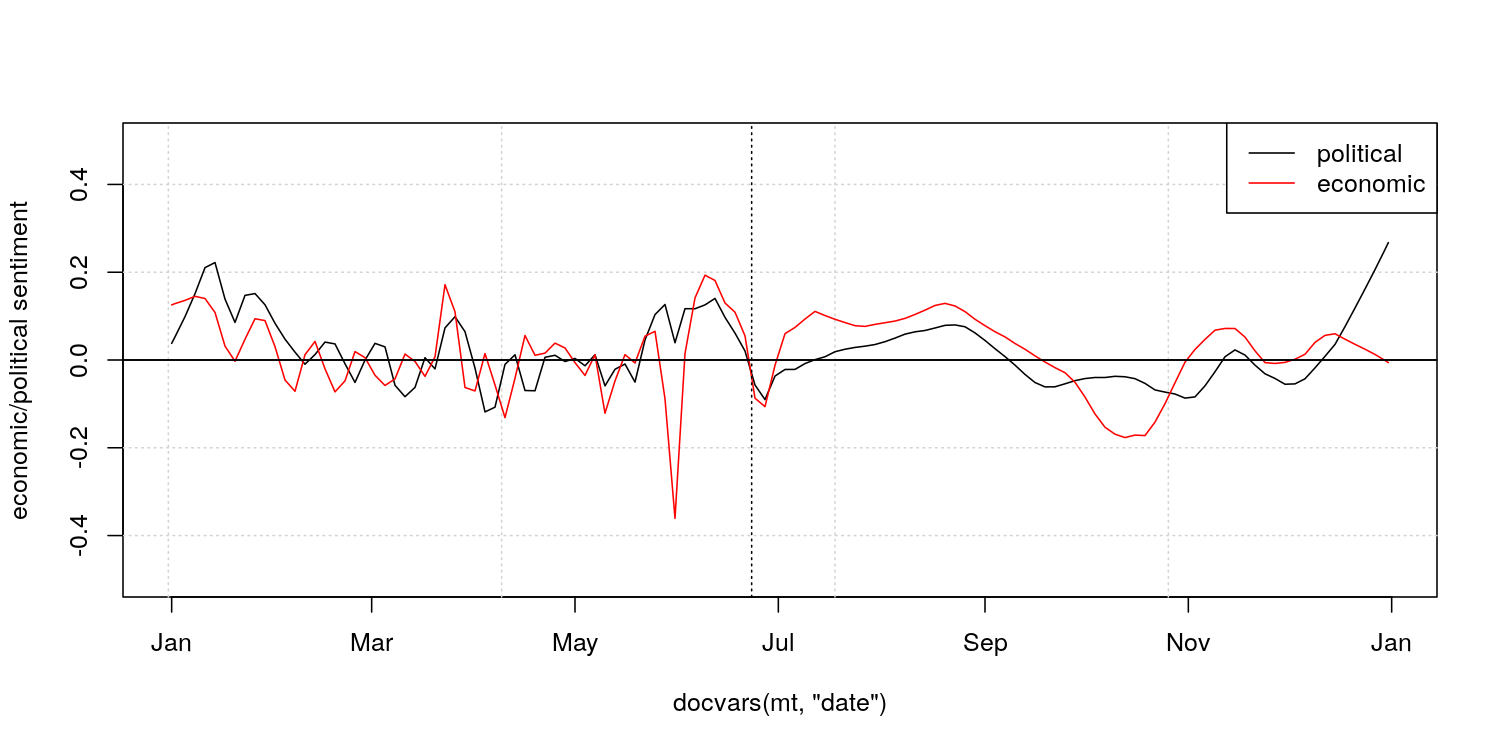
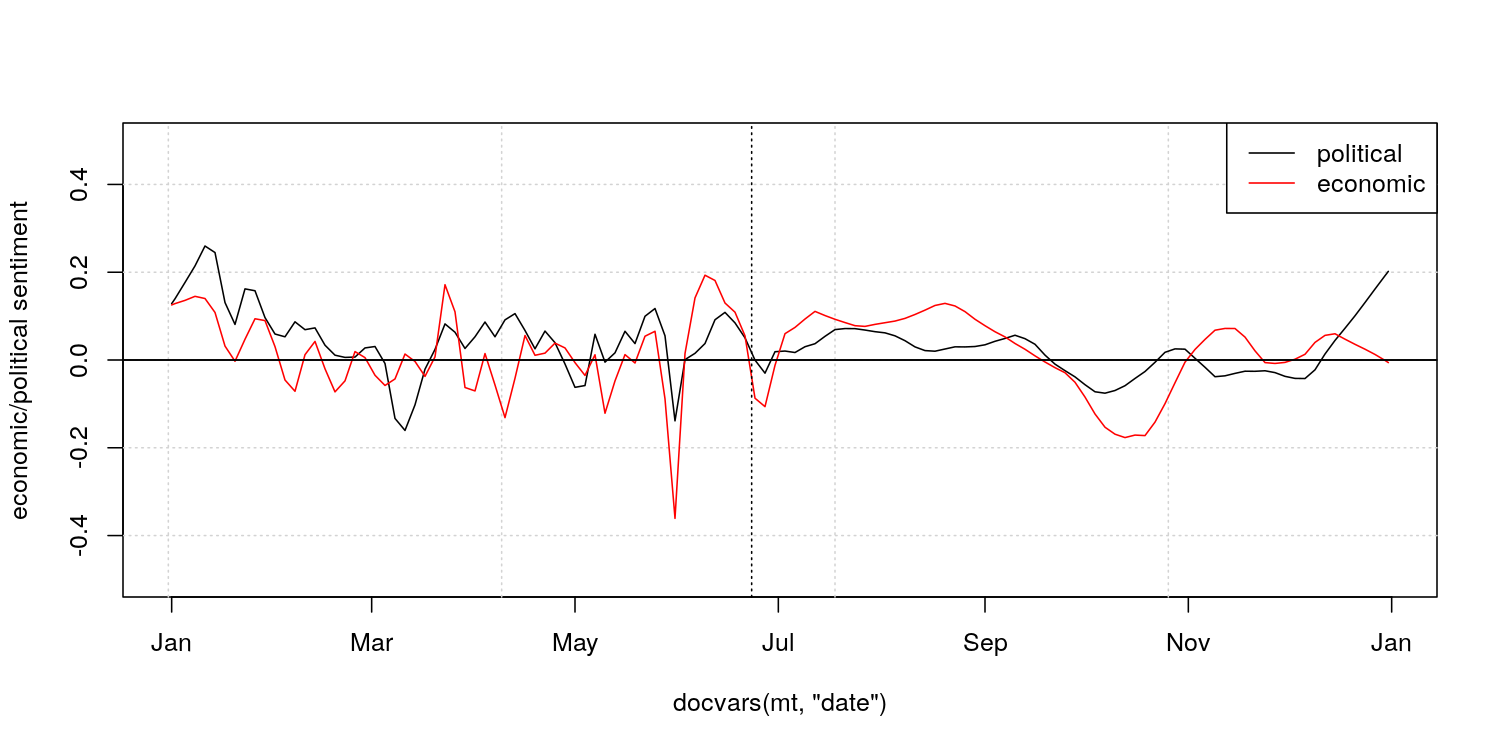
Update README

diff --git a/README.md b/README.md
@@ -57,24 +57,22 @@ require(LSS)
 ```
 
 ``` r
-corp <- readRDS('/home/kohei/Dropbox/Public/data_corpus_guardian2016-10k.rds')
+corp <- readRDS("/home/kohei/Dropbox/Public/data_corpus_guardian2016-10k.rds")
 
 toks_sent <- corp %>% 
-    corpus_reshape('sentences') %>% 
-    tokens(remove_punct = TRUE)
-mt_sent <- toks_sent %>% 
-    dfm(remove = stopwords()) %>% 
-    dfm_select('^[a-zA-Z]+$', valuetype = 'regex', min_nchar = 2) %>% 
+    corpus_reshape("sentences") %>% 
+    tokens(remove_punct = TRUE) %>% 
+    tokens_remove(stopwords(), padding = TRUE)
+dfmt_sent <- toks_sent %>% 
+    dfm(remove = "") %>% 
+    dfm_select("^\\p{L}+$", valuetype = "regex", min_nchar = 2) %>% 
     dfm_trim(min_termfreq = 5)
 
-#' sentiment model on economy
-eco <- head(char_keyness(toks_sent, 'econom*'), 500)
-lss_eco <- textmodel_lss(mt_sent, seedwords('pos-neg'), features = eco)
-
-# sentiment model on politics
-pol <- head(char_keyness(toks_sent, 'politi*'), 500)
-lss_pol <- textmodel_lss(mt_sent, seedwords('pos-neg'), features = pol)
+eco <- char_keyness(toks_sent, "econom*", p = 0.05)
+tmod_lss <- textmodel_lss(dfmt_sent, seedwords('pos-neg'), feature = eco, cache = TRUE)
 ```
+
+    ## Reading cache file:lss_cache/svds_89a7251a04d7553f.RDS
 
 ### Sentiment seed words
 
@@ -82,7 +80,7 @@ Seed words are 14 generic sentiment
     words.
 
 ``` r
-seedwords('pos-neg')
+seedwords("pos-neg")
 ```
 
     ##        good        nice   excellent    positive   fortunate     correct 
@@ -97,118 +95,61 @@ seedwords('pos-neg')
 LSS identifies domain specific words and weight them by
     sentiment.
 
-#### Economic words
-
 ``` r
-head(coef(lss_eco), 20) # most positive words
+head(coef(tmod_lss), 20) # most positive words
 ```
 
-    ##    positive   expecting    emerging   professor sustainable      decent 
-    ##  0.04198759  0.04041890  0.03913838  0.03453550  0.03438302  0.03208933 
-    ##      oxford       stock        prof    academic     markets   efficient 
-    ##  0.03161188  0.03147390  0.03014006  0.02986570  0.02947902  0.02903777 
-    ##      failed        asia  management         hit consultancy       slide 
-    ##  0.02804538  0.02780202  0.02704815  0.02670997  0.02659349  0.02640886 
-    ##     impacts       china 
-    ##  0.02586232  0.02559905
+    ##       legal    positive   expecting    emerging        able   professor 
+    ##  0.04205670  0.04198759  0.04041890  0.03913838  0.03768802  0.03453550 
+    ## sustainable      monday      decent      oxford         aid       stock 
+    ##  0.03438302  0.03376070  0.03208933  0.03161188  0.03156961  0.03147390 
+    ##  principles       shape        prof    northern    academic     markets 
+    ##  0.03035493  0.03016979  0.03014006  0.02992693  0.02986570  0.02947902 
+    ##         nhs      either 
+    ##  0.02922554  0.02915907
 
 ``` r
-tail(coef(lss_eco), 20) # most negative words
+tail(coef(tmod_lss), 20) # most negative words
 ```
 
-    ##       brexit        pound    situation         data         rise 
-    ##  -0.03378953  -0.03410171  -0.03439309  -0.03457411  -0.03495389 
-    ##       impact     pantheon implications      cutting     downbeat 
-    ##  -0.03535304  -0.03546813  -0.03565484  -0.03590826  -0.03597810 
-    ##         debt     interest    suggested     suggests         hike 
-    ##  -0.03636211  -0.03762701  -0.03864661  -0.03928283  -0.04396055 
+    ##         rise       impact     pantheon implications      cutting 
+    ##  -0.03495389  -0.03535304  -0.03546813  -0.03565484  -0.03590826 
+    ##     downbeat         debt    dominated     interest    suggested 
+    ##  -0.03597810  -0.03636211  -0.03700214  -0.03762701  -0.03864661 
+    ##     suggests    something       happen         hike    borrowing 
+    ##  -0.03928283  -0.04008333  -0.04076961  -0.04396055  -0.04549552 
     ##        rates         rate unemployment          rba     negative 
     ##  -0.04638569  -0.04689606  -0.04810378  -0.05048054  -0.06004318
 
-#### Political words
+## Result of analysis
+
+In the plots, circles indicate sentiment of individual news articles and
+lines are their local average (solid line) with a confidence band
+(dotted lines). According to the plot, economic sentiment in the
+Guardian news stories became negative from February to April, but it
+become more positive in April. As the referendum approaches, the
+newspaper’s sentiment became less stable, although it became close to
+neutral (overall mean) on the day of voting (broken line).
 
 ``` r
-head(coef(lss_pol), 20) # most positive words
+dfmt <- dfm(corp)
+
+# predict sentiment scores
+pred <- as.data.frame(predict(tmod_lss, se.fit = TRUE, newdata = dfmt))
+pred$date <- docvars(dfmt, "date")
+pred <- na.omit(pred)
+
+# smooth LSS scores
+pred_sm <- smooth_lss(pred, from = as.Date("2016-01-01"), to = as.Date("2016-12-31"))
+
+# plot trend
+plot(pred$date, pred$fit, col = rgb(0, 0, 0, 0.05), pch = 16, ylim = c(-0.5, 0.5),
+     xlab = "Time", ylab = "Negative vs. positive", main = "Economic sentiment in the Guardian")
+lines(pred_sm$date, pred_sm$fit, type = "l")
+lines(pred_sm$date, pred_sm$fit + pred_sm$se.fit * 2, type = "l", lty = 3)
+lines(pred_sm$date, pred_sm$fit - pred_sm$se.fit * 2, type = "l", lty = 3)
+abline(h = 0, v = as.Date("2016-06-23"), lty = c(1, 2))
+text(as.Date("2016-06-23"), 0.4, "Brexit referendum")
 ```
 
-    ##         correct  constitutional     commentator          battle 
-    ##      0.04617497      0.03838595      0.03682553      0.03494310 
-    ##       professor           court      university          killed 
-    ##      0.03453550      0.03383873      0.02973055      0.02935159 
-    ##            near         process        lecturer representatives 
-    ##      0.02786398      0.02731266      0.02720056      0.02698998 
-    ##           laura         elected       relatives          robert 
-    ##      0.02482720      0.02462219      0.02432675      0.02395674 
-    ##          career            hong         reasons        involved 
-    ##      0.02390902      0.02288129      0.02280180      0.02272463
-
-``` r
-tail(coef(lss_pol), 20) # most negative words
-```
-
-    ##     increase     purposes         talk    motivated       showed 
-    ##  -0.02656812  -0.02661012  -0.02661925  -0.02663048  -0.02764339 
-    ##     promises  calculation consequences          row        often 
-    ##  -0.02847466  -0.02879053  -0.02903463  -0.02939308  -0.03084510 
-    ##  complicated        dirty    movements       debate   discussion 
-    ##  -0.03151053  -0.03228046  -0.03235362  -0.03269543  -0.03360233 
-    ##       brexit         data    departure    dominated          cut 
-    ##  -0.03378953  -0.03457411  -0.03629428  -0.03700214  -0.05993724
-
-## Predict sentiment of news
-
-In the plots, circles indicate estimated sentiment of news articles.
-After the UK’s referendum on EU membership on 23 June, we can see sharp
-drop in both economic and political sentiment in the newspaper articles.
-Economic sentiment recovered within a month, but negative political
-sentiment
-sustained.
-
-``` r
-mt <- dfm(corp)
-```
-
-### Economic sentiment
-
-``` r
-pred_eco <- as.data.frame(predict(lss_eco, newdata = mt, density = TRUE))
-pred_eco$date <- docvars(mt, 'date')
-pred_eco <- na.omit(pred_eco)
-
-plot(pred_eco$date, pred_eco$fit, pch = 16, col = rgb(0, 0, 0, 0.1),
-     ylim = c(-1, 1), ylab = 'economic sentiment')
-lines(lowess(pred_eco$date, pred_eco$fit, f = 0.05), col = 1)
-abline(h = 0, v = as.Date("2016-06-23"), lty = c(1, 3))
-```
-
-![](images/unnamed-chunk-9-1.png)<!-- -->
-
-### Political sentiment
-
-``` r
-pred_pol <- as.data.frame(predict(lss_pol, newdata = mt, density = TRUE))
-pred_pol$date <- docvars(mt, 'date')
-pred_pol <- na.omit(pred_pol)
-
-plot(pred_pol$date, pred_pol$fit, pch = 16, col = rgb(1, 0, 0, 0.1),
-     ylim = c(-1, 1), ylab = 'political sentiment')
-lines(lowess(pred_pol$date, pred_pol$fit, f = 0.05), col = 2)
-abline(h = 0, v = as.Date("2016-06-23"), lty = c(1, 3))
-```
-
-![](images/unnamed-chunk-10-1.png)<!-- -->
-
-### Comparison
-
-``` r
-plot(docvars(mt, 'date'), rep(0, ndoc(mt)), type = 'n',
-     ylim = c(-0.5, 0.5), ylab = 'economic/political sentiment')
-grid()
-lines(lowess(pred_eco$date, pred_eco$fit, f = 0.05), col = 1)
-lines(lowess(pred_pol$date, pred_pol$fit, f = 0.05), col = 2)
-abline(h = 0)
-legend('topright', lty = 1, col = 1:2, legend = c('political', 'economic'))
-abline(h = 0, v = as.Date("2016-06-23"), lty = c(1, 3))
-```
-
-![](images/unnamed-chunk-11-1.png)<!-- -->
+![](images/unnamed-chunk-7-1.png)<!-- -->
